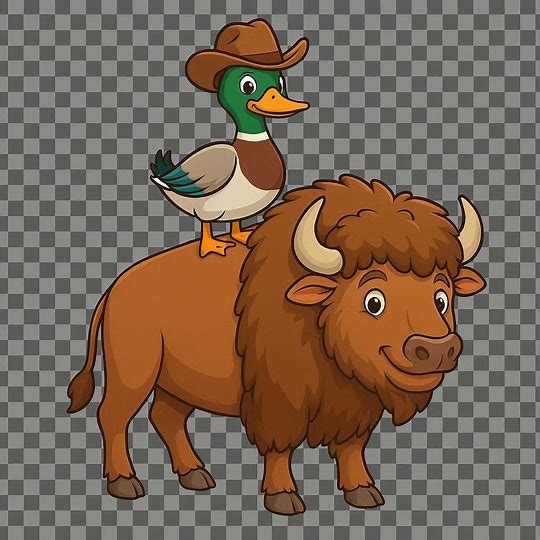
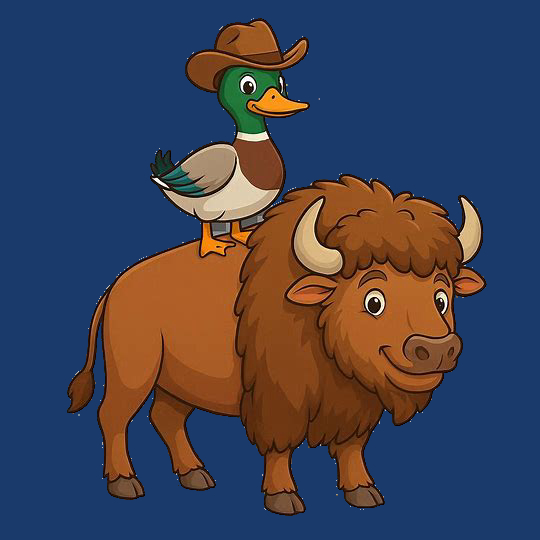
Remove diagnostic console.log, prep for Zack testing

diff --git a/src/scenes/GameScene.js b/src/scenes/GameScene.js
@@ -292,14 +292,15 @@ export default class GameScene extends Phaser.Scene {
     duck.x = Phaser.Math.Clamp(duck.x, 16, WORLD_W - 16);
 
     // ── Step timer ──────────────────────────────────────────────────────────
-    if (duck.onGround && !inWater && Math.abs(duck.vx) > 0.5) {
-      duck.stepTimer += fdt;          // walking
+    // Walking: count raw frames (not fdt) so sin animation speed is frame-consistent
+    if (duck.onGround && !inWater && Math.abs(duck.vx) > 0.1) {
+      duck.stepTimer += 1;            // walking — raw frame count
     } else if (!inWater && !duck.onGround) {
       duck.stepTimer += fdt;          // flying (wing flap)
     } else if (inWater) {
       duck.stepTimer += fdt;          // swimming paddle
     } else {
-      duck.stepTimer = 0;             // standing still
+      duck.stepTimer = 0;             // standing still — reset so angle also resets
     }
 
     // ── Collectibles ────────────────────────────────────────────────────────
@@ -337,39 +338,45 @@ export default class GameScene extends Phaser.Scene {
     // duck.underwater is only true when fully below WATER_SURFACE + 2.
     let drawState;
     if (duck.underwater)                                        drawState = 'dive'; // submerged
-    else if (inWater && !duck.isFlying
-             && duck.y >= WATER_SURFACE - 4)                   drawState = 'swim'; // on surface
+    else if (inWater && !duck.underwater && duck.onGround
+             && !duck.isFlying)                                 drawState = 'swim'; // sitting on surface
     else if (duck.isFlying)                                     drawState = 'fly';
     else if (!duck.onGround)                                    drawState = 'stand';
     else if (Math.abs(duck.vx) > 0.5)                          drawState = 'walk';
     else                                                        drawState = 'stand';
 
-    // Swap texture for current movement state
-    const texKey = drawState === 'fly'  ? 'mallard-fly'  :
-                   drawState === 'swim' ? 'mallard-swim' :
-                   drawState === 'dive' ? 'mallard-dive' : 'mallard-walk';
-    this.mallorySprite.setTexture(texKey);
-
-    // Sprite Y: no offset on ground (origin 0.5,1.0 puts feet exactly at duck.y).
-    // Swim state pushes sprite down so body sits on the water line.
-    let spriteY = duck.y;
+    // ── Sprite positioning per draw state ───────────────────────────────────
     if (drawState === 'swim') {
-      spriteY += 10; // align body with water line (sprite has padding at bottom)
-    } else if (drawState === 'walk') {
-      spriteY += Math.sin(duck.stepTimer * 0.4) * 3; // subtle 3px vertical bob
-    }
-
-    this.mallorySprite.setPosition(duck.x, spriteY);
-    this.mallorySprite.setFlipX(duck.facing < 0);
-
-    // Walk: slight body rock. Reset angle when not walking.
-    if (drawState === 'walk') {
-      this.mallorySprite.setAngle(Math.sin(duck.stepTimer * 0.4) * 4);
-    } else {
+      this.mallorySprite.setTexture('mallard-swim');
+      this.mallorySprite.setOrigin(0.5, 1.0);
+      this.mallorySprite.setPosition(duck.x, WATER_SURFACE);
       this.mallorySprite.setAngle(0);
+      this.mallorySprite.setFlipX(duck.facing < 0);
+      this.mallorySprite.setAlpha(1);
+    } else if (drawState === 'dive') {
+      this.mallorySprite.setTexture('mallard-dive');
+      this.mallorySprite.setOrigin(0.5, 0.5);
+      this.mallorySprite.setPosition(duck.x, duck.y);
+      this.mallorySprite.setAngle(0);
+      this.mallorySprite.setFlipX(duck.facing < 0);
+      this.mallorySprite.y += Math.sin(duck.stepTimer * 0.15) * 3;
+      this.mallorySprite.setAlpha(1);
+    } else {
+      // Land / fly / walk / stand — bottom-center anchor
+      this.mallorySprite.setOrigin(0.5, 1.0);
+      const texKey = drawState === 'fly' ? 'mallard-fly' : 'mallard-walk';
+      this.mallorySprite.setTexture(texKey);
+      this.mallorySprite.setPosition(duck.x, duck.y);
+      this.mallorySprite.setFlipX(duck.facing < 0);
+      if (drawState === 'walk') {
+        this.mallorySprite.y -= Math.sin(duck.stepTimer * 0.28) * 12;
+        this.mallorySprite.setAngle(Math.sin(duck.stepTimer * 0.28) * 15);
+      } else {
+        this.mallorySprite.setAngle(0);
+      }
+      // Invincibility flicker — only on land/fly states
+      this.mallorySprite.setAlpha(this.invincible && Math.floor(this._tick / 4) % 2 === 0 ? 0.3 : 1.0);
     }
-
-    this.mallorySprite.setAlpha(this.invincible && Math.floor(this._tick / 4) % 2 === 0 ? 0.3 : 1.0);
 
     this._drawItems();
     this._drawCampfires();

diff --git a/src/scenes/TitleScene.js b/src/scenes/TitleScene.js
@@ -10,56 +10,66 @@ export default class TitleScene extends Phaser.Scene {
   create() {
     const { width, height } = this.scale;
 
-    // Solid background prevents canvas transparency showing as gray grid
-    this.cameras.main.setBackgroundColor('#5C8AE6');
+    // STEP 2 — Camera background (failsafe for any uncovered pixels)
+    this.cameras.main.setBackgroundColor('#1a3a6b');
 
-    // Sky gradient background
-    const sky = this.add.graphics();
-    sky.fillGradientStyle(0x5C8AE6, 0x5C8AE6, 0x87CEEB, 0x87CEEB, 1);
-    sky.fillRect(0, 0, width, height);
+    // STEP 1 — Fullscreen opaque background rect, first thing created, depth 0.
+    // This guarantees nothing behind the image is transparent in WebGL mode.
+    const bg = this.add.rectangle(0, 0, width, height, 0x1a3a6b);
+    bg.setOrigin(0, 0);
+    bg.setDepth(0);
+
+    // Sky colour bands (above the ground strip)
+    this.add.rectangle(width / 2, height * 0.72, width, height * 0.25, 0x1a3a6b).setDepth(0);
 
     // Ground strip
-    this.add.graphics()
-      .fillStyle(0x4a7c2f)
-      .fillRect(0, height - 60, width, 60);
+    this.add.rectangle(width / 2, height - 30, width, 60, 0x4a7c2f).setDepth(0);
 
-    // Title text — created first so we can measure its bottom edge
+    // Title text — created before image so we can measure its bottom edge
     const titleText = this.add.text(width / 2, height * 0.06, 'DUCK BISON', {
       fontFamily: 'Arial Black, Impact, sans-serif',
       fontSize: '64px',
       color: '#f7c948',
       stroke: '#3a1a06',
       strokeThickness: 8,
-    }).setOrigin(0.5, 0); // top-center origin so .y + .height = bottom edge
+    }).setOrigin(0.5, 0).setDepth(2);
 
-    // START button geometry — defined early so image can be centred between them
+    // START button geometry — defined early so image centres between title and button
     const btnX = width / 2;
     const btnY = height * 0.78;
     const btnW = 200;
     const btnH = 52;
 
-    // Vertically centre the image between title bottom and button top
+    // Centre image between bottom of title text and top of START button
     const titleBottom = titleText.y + titleText.height;
     const btnTop      = btnY - btnH / 2;
     const imgCenterY  = (titleBottom + btnTop) / 2;
     const maxW        = width  * 0.72;
-    const maxH        = btnTop - titleBottom - 16; // 8px breathing room each side
+    const maxH        = btnTop - titleBottom - 16;
 
-    const img = this.add.image(width / 2, imgCenterY, 'title-image').setOrigin(0.5, 0.5);
+    // STEPS 3 & 5 — Image at depth 1 (above bg rect), NORMAL blend, fully opaque.
+    // Using the .jpg which has NO alpha channel — eliminates checkerboard entirely.
+    const img = this.add.image(width / 2, imgCenterY, 'title-image');
+    img.setOrigin(0.5, 0.5);
+    img.setDepth(1);
+    img.setBlendMode(Phaser.BlendModes.NORMAL);
+    img.clearTint();
+    img.setAlpha(1);
     img.setScale(Math.min(maxW / img.width, maxH / img.height));
 
-    // START button (canvas-drawn, no HTML elements)
-    const btn = this.add.graphics();
+    // START button — graphics only for the button shape (no background use)
+    const btn = this.add.graphics().setDepth(2);
     this._drawBtn(btn, btnX, btnY, btnW, btnH, false);
 
     this.add.text(btnX, btnY, 'START', {
       fontFamily: 'Arial Black, sans-serif',
       fontSize: '28px',
       color: '#3a1a06',
-    }).setOrigin(0.5);
+    }).setOrigin(0.5).setDepth(2);
 
     // Hit zone
-    const hitZone = this.add.zone(btnX, btnY, btnW, btnH).setInteractive({ useHandCursor: true });
+    const hitZone = this.add.zone(btnX, btnY, btnW, btnH)
+      .setInteractive({ useHandCursor: true }).setDepth(2);
     hitZone.on('pointerover', () => this._drawBtn(btn, btnX, btnY, btnW, btnH, true));
     hitZone.on('pointerout',  () => this._drawBtn(btn, btnX, btnY, btnW, btnH, false));
     hitZone.on('pointerdown', () => this.scene.start('GameScene'));
@@ -73,7 +83,7 @@ export default class TitleScene extends Phaser.Scene {
       fontFamily: 'Arial, sans-serif',
       fontSize: '14px',
       color: '#cccccc',
-    }).setOrigin(0.5);
+    }).setOrigin(0.5).setDepth(2);
   }
 
   _drawBtn(gfx, x, y, w, h, hover) {

diff --git a/src/scenes/BootScene.js b/src/scenes/BootScene.js
@@ -10,7 +10,7 @@ import mallardFlyUrl   from '../assets/mallory-flying.png';
 import mallardSwimUrl  from '../assets/mallory-on-water-swimming.png';
 import mallardDiveUrl  from '../assets/mallory-underwater-swimming.png';
 import bisonWalkUrl    from '../assets/bennett-walk.png';
-import titleImageUrl   from '../assets/Mallory_on_top_of_Bennett2.png';
+import titleImageUrl   from '../assets/Mallory_on_top_of_Bennett.jpg';
 
 export default class BootScene extends Phaser.Scene {
   constructor() {

diff --git a/index.html b/index.html
@@ -14,6 +14,9 @@
         height: 100vh;
         overflow: hidden;
       }
+      canvas {
+        display: block;
+      }
     </style>
   </head>
   <body>
